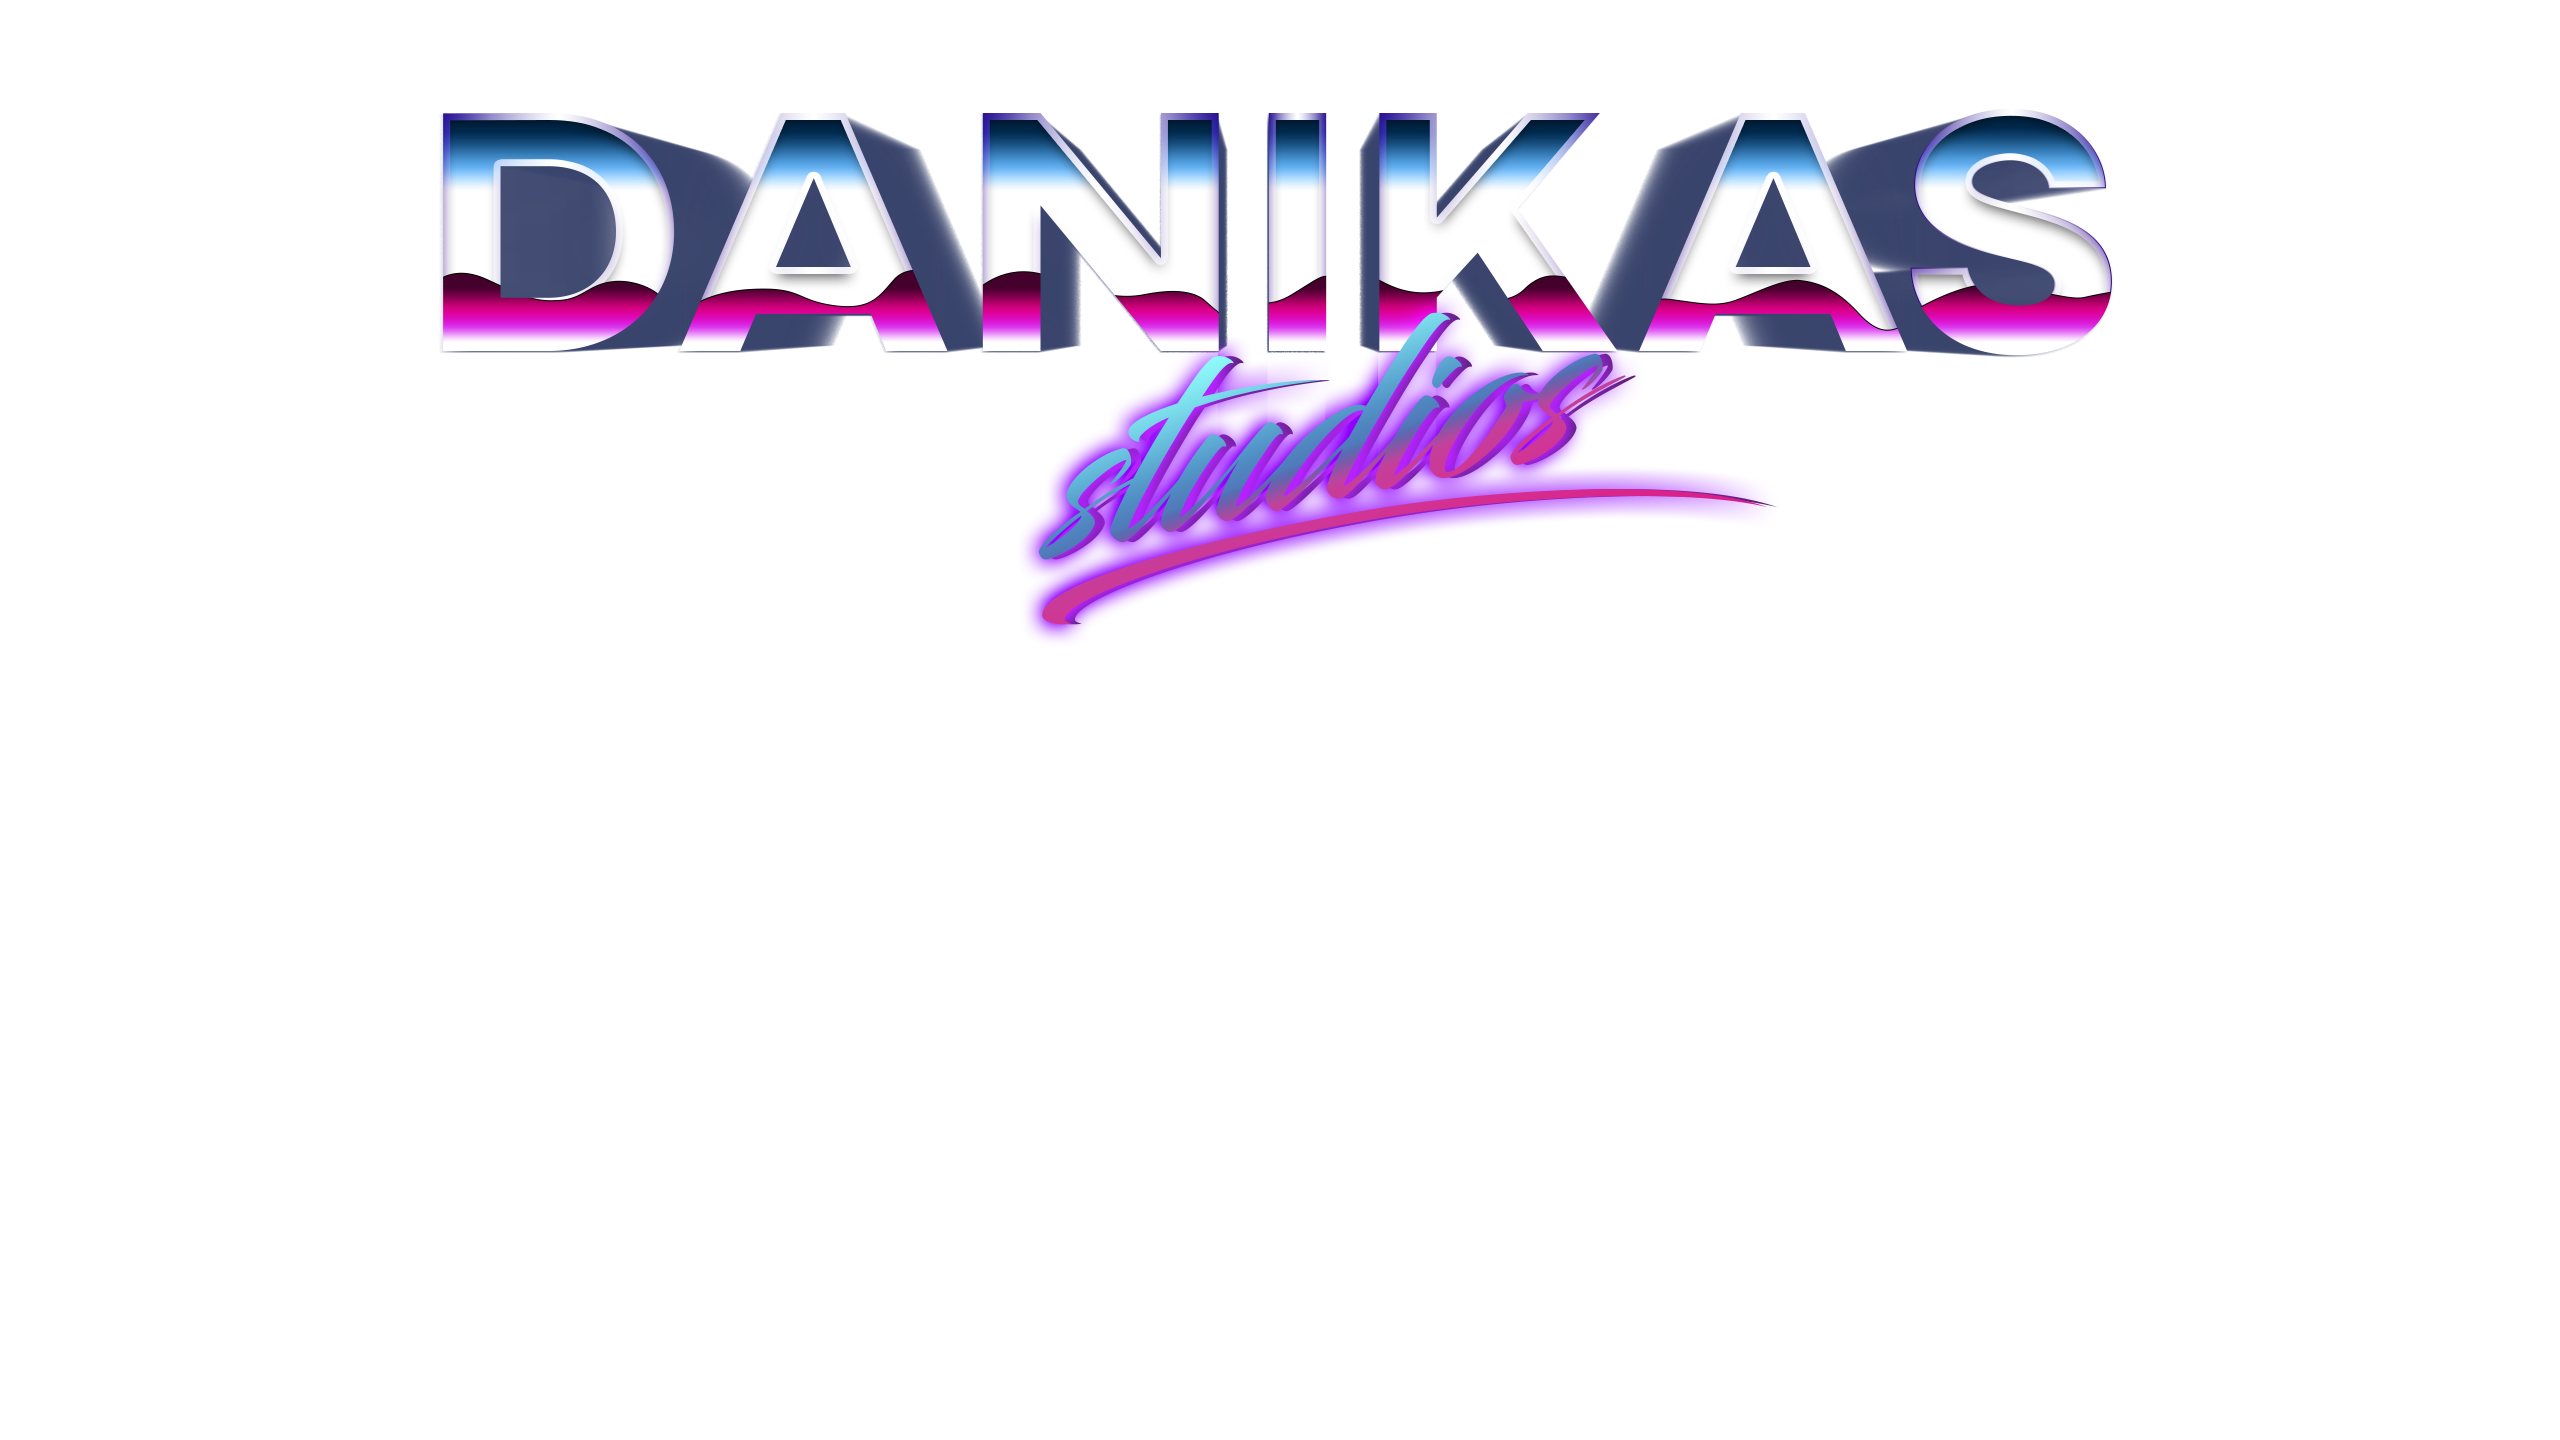
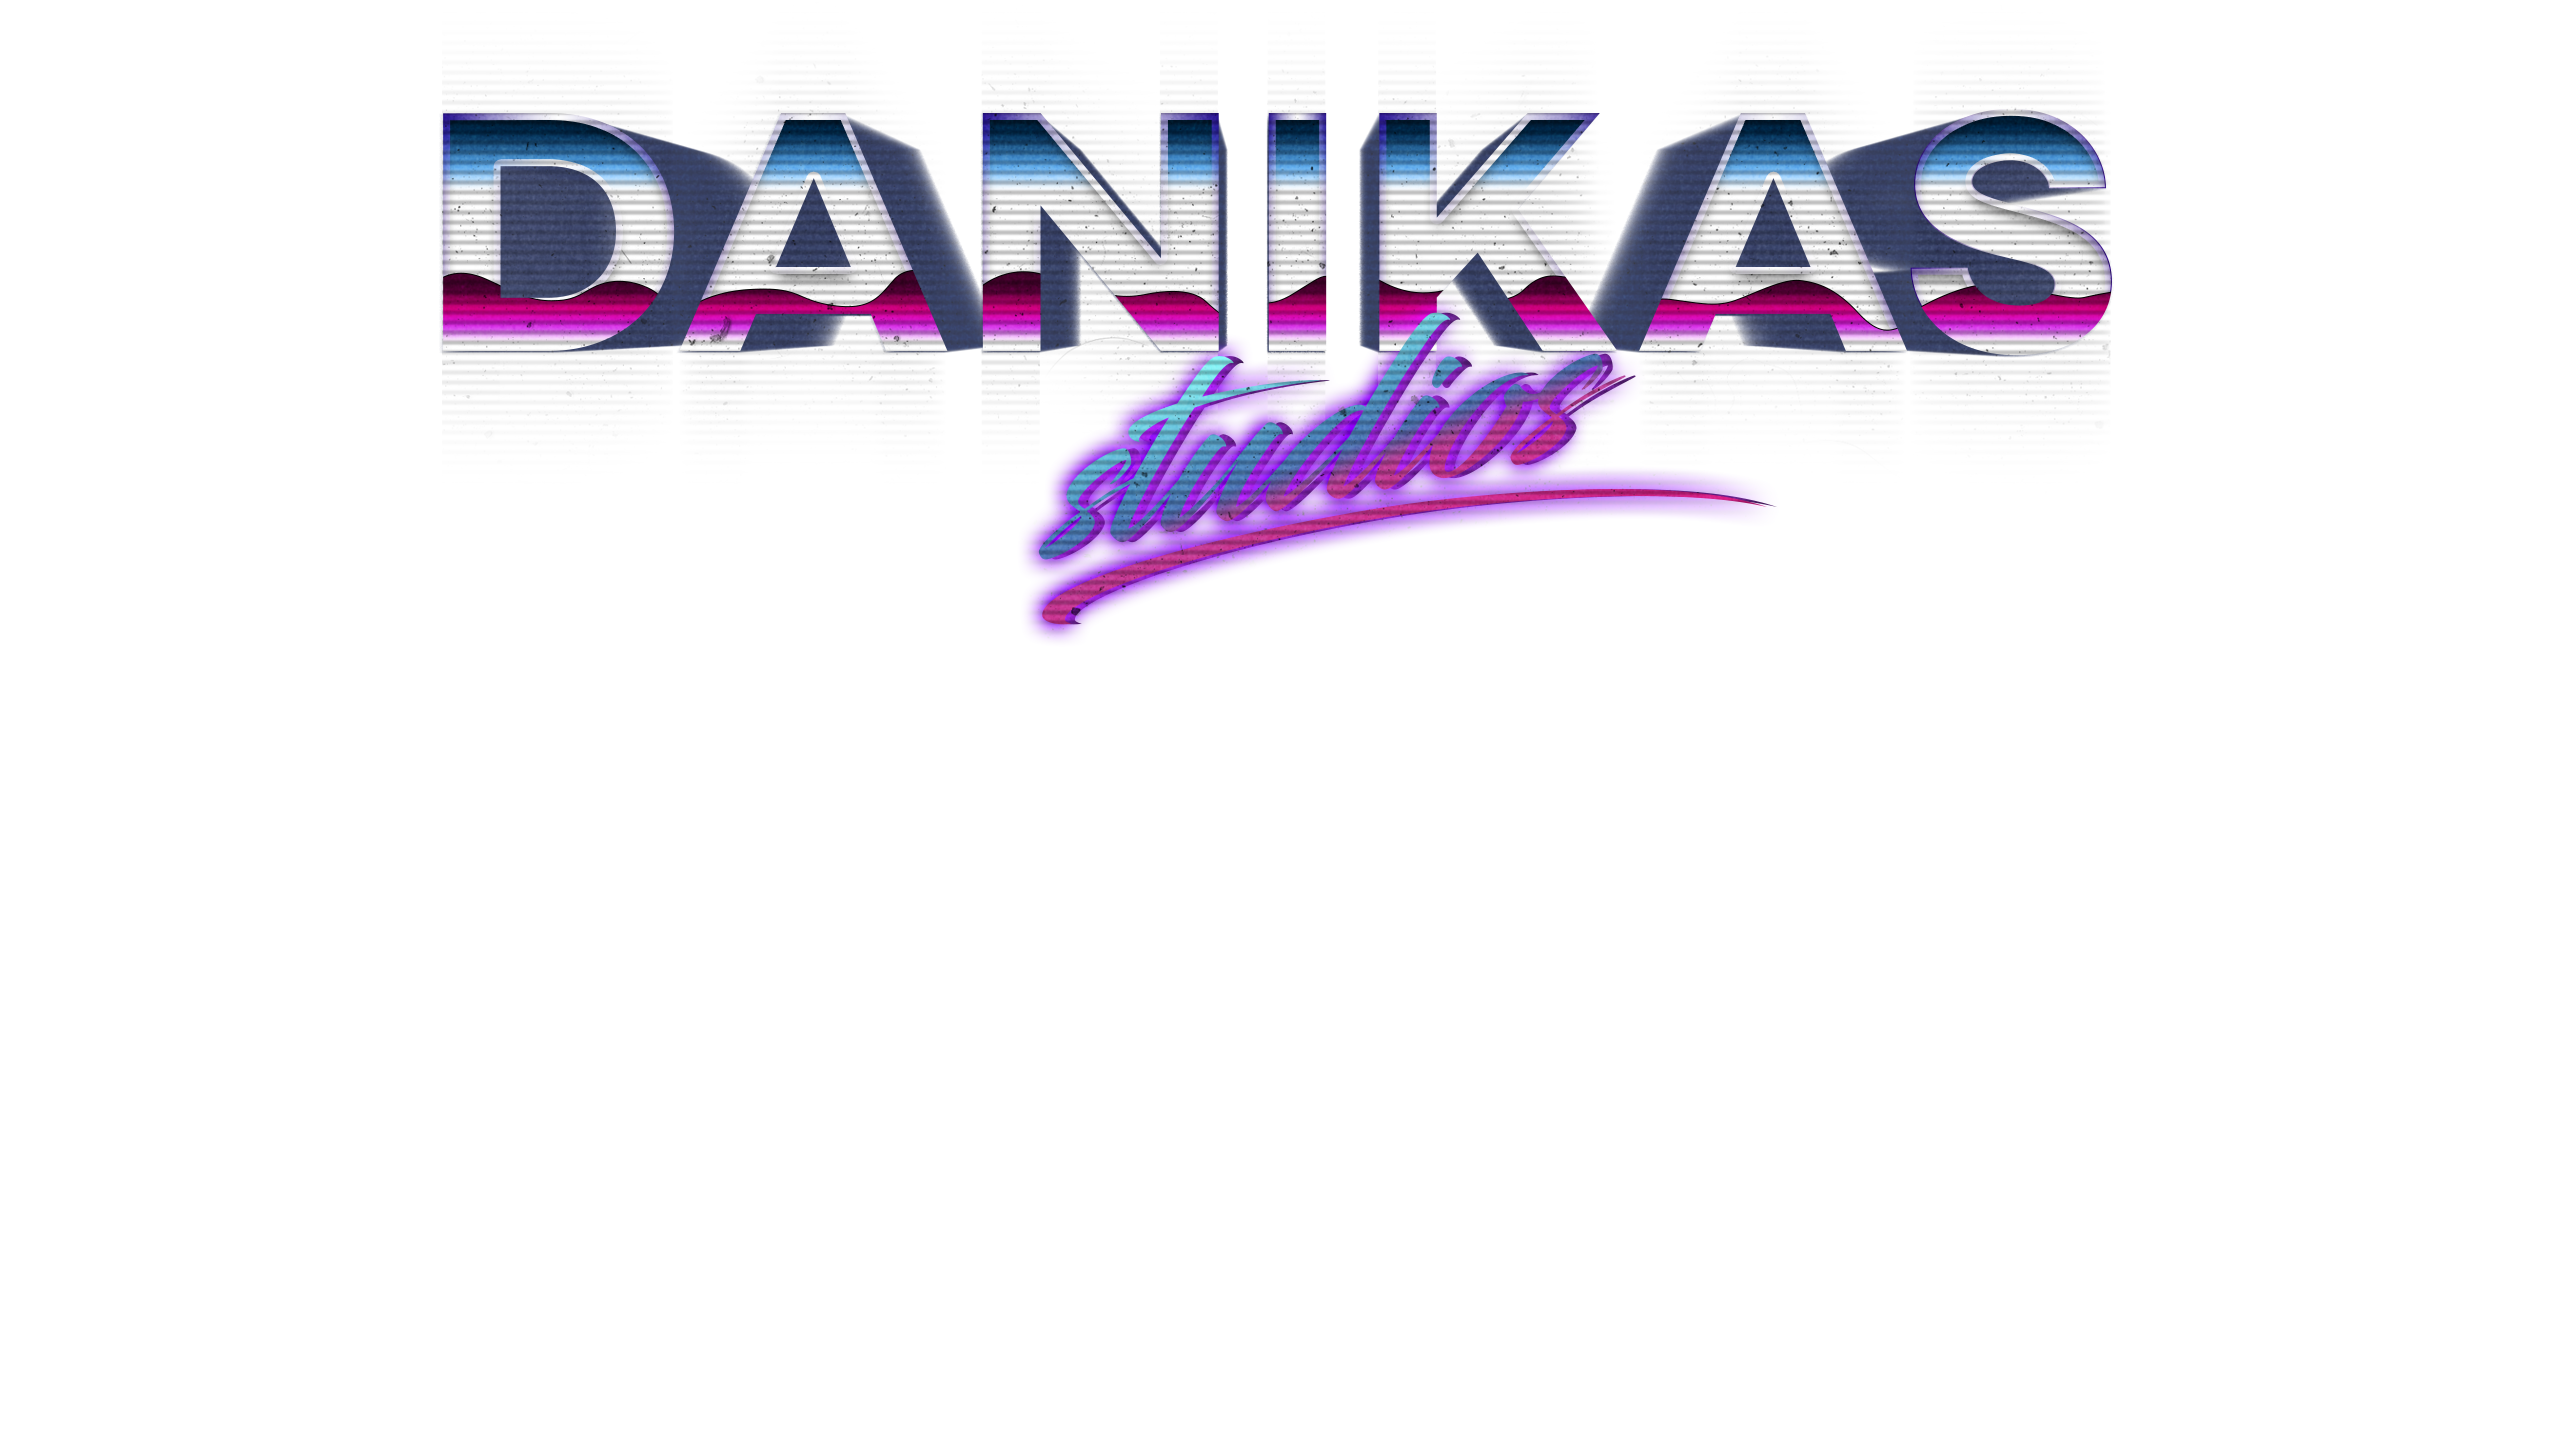
first successful commit with the background

Changed region(s): [[0.1562, 0.0625, 0.8438, 0.4375]]

diff --git a/style.css b/style.css
@@ -20,14 +20,29 @@ body{
     z-index: -1;
     border-bottom: 8px solid whitesmoke;
 }
+.danikasStudiosText{
+    position: absolute;
+    width: 100%;
+    height: 100%;
+    background: url("images/DANIKAS-STUDIOS-TEXT.png") no-repeat center center;
+    background-size: cover;
+    z-index: 4;
+}
+.palmTrees{
+    position: absolute;
+    width: 100%;
+    height: 100%;
+    background: url("images/palm-trees.png") no-repeat center center;
+    background-size: cover;
+    z-index: 3;
+}
 .mainBackground{
     position: absolute;
     width: 100%;
     height: 100%;
-    border: 1px solid black; /*feugei*/
-    background-image: url(images/DANIKAS-STUDIOS-TEXT.png) no-repeat center center fixed;
+    background: url("images/background.jpg") no-repeat center center fixed;
     background-size: cover;
-    z-index: 3;
+    z-index: 2;
 }
 .navigationBar{
     /*to border feugei mono katw mporei na valw*/
@@ -49,20 +64,21 @@ body{
     display: inline-block;
     text-align: center;
 }
-.links .icon{
-    margin-left: 7%;
-}
 .links .name{
-    margin-left: 1%;
+    margin-left: 5%;
     margin-right: 4%;
-    margin-top: 0.7%;
-
-    font-size: 150%;
-    font-weight: bold;
-    color: whitesmoke;/*allazei to xrwma*/
+    margin-top: 1%;
+    position: absolute;
+    width: 200px;
+    height: 100px;
+    background: url("images/DANIKAS-STUDIOS-TEXT.png") no-repeat center center;
+    background-size: cover;
+}
+.link:nth-child(2){
+    margin-left: 19%;
 }
 .links .link {
-    padding: 0.7% 6%;
+    padding: 1% 6%;
     font-weight: bold;
     font-size: 150%;
     color: whitesmoke; /*allazei xrwma*/

diff --git a/Index.html b/Index.html
@@ -11,6 +11,8 @@
 
         <!--BACKGROUND_ MAKE IT PARALLAX-->
         <div class="main">
+            <div class="danikasStudiosText"></div>
+            <div class="palmTrees"></div>
             <div class="mainBackground"></div>
         </div>
 
@@ -18,8 +20,7 @@
         <!--NAVIGATION BAR  _____ MAKE IT STICKY-->
         <nav class = "navigationBar" id="navigationBarID">
             <ul class = "links">
-                <li class="icon">//icon</li>
-                <li class="name">Danikas Studios</li>
+                <li class="name"></li>
                 <li class="link"><a>HOME</a></li>
                 <li class="link"><a>LINK</a></li>
                 <li class="link"><a>LINK</a></li>
